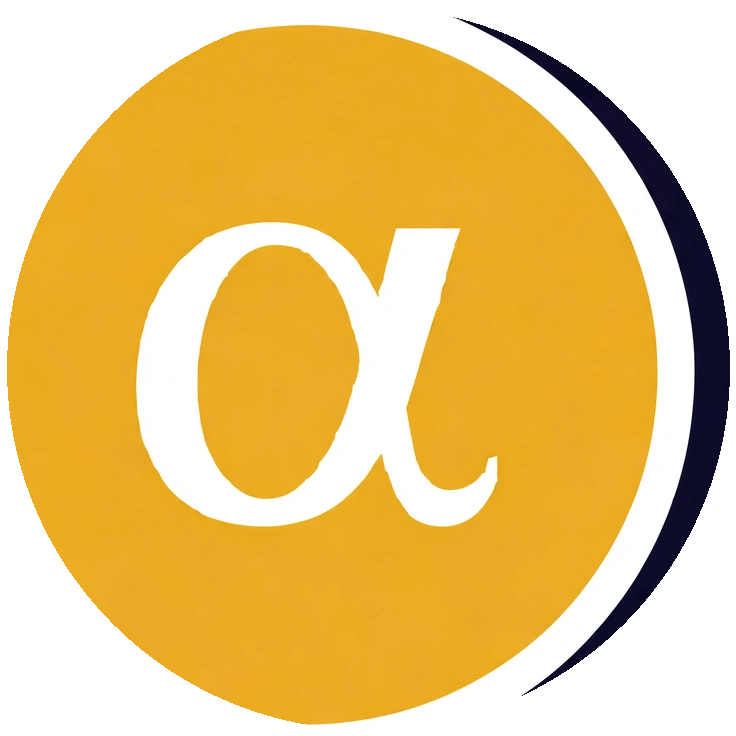
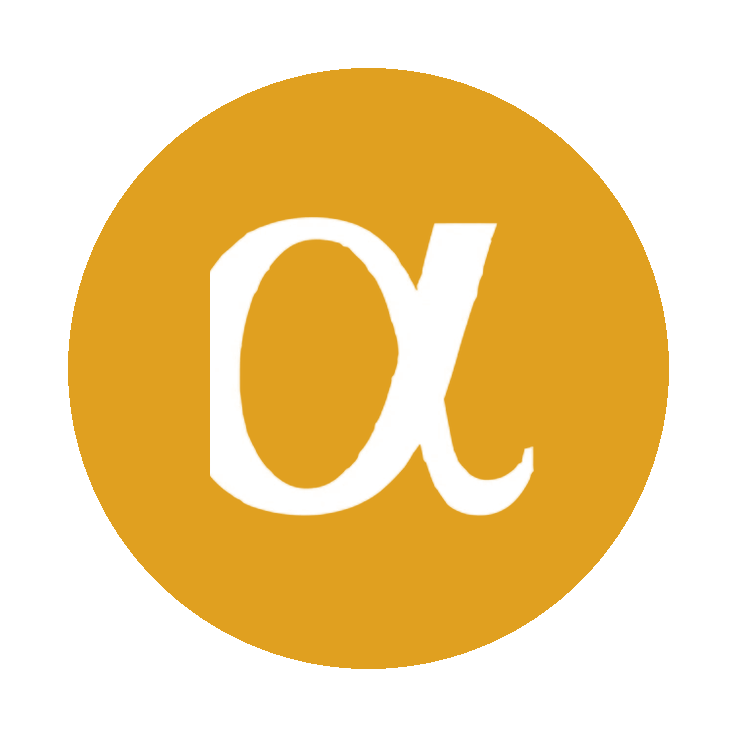
Medallion: perfect-circle border, original alpha, slightly smaller
Rebuilt the disc-a medallion geometrically (uniform white ring, verified
circular) with the logo's own alpha keyed onto it, instead of a raw crop
whose mask clipped the AI-drawn outline. Display size 46->42 appbar,
76->70 hero.

diff --git a/dfs_lab/ui/setup.py b/dfs_lab/ui/setup.py
@@ -75,14 +75,14 @@ def render_setup():
     st.markdown(styles.SETUP_APPBAR_DARK_CSS, unsafe_allow_html=True)
 
     st.markdown(f'''<div class="lab-appbar">
-  <div class="lab-brand">{_disc_a_img(46)}<b>ytia</b></div>
+  <div class="lab-brand">{_disc_a_img(42)}<b>ytia</b></div>
   <div class="lab-appbar-copy"><strong>NFL DFS COMMAND CENTER</strong><span>Build · Explore · Challenge</span></div>
   <div class="lab-live"><i></i> LIVE SLATE</div>
 </div>''',unsafe_allow_html=True)
 
     st.markdown(f"""
 <div style="text-align:center; padding: 1.2rem 0 0.6rem;">
-<div style="display:flex;align-items:center;justify-content:center;gap:5px;font-family:'Source Serif 4',Georgia,'Times New Roman',serif; font-size:3rem; font-weight:700; letter-spacing:0.01em;">{_disc_a_img(76)}<span>ytia</span></div>
+<div style="display:flex;align-items:center;justify-content:center;gap:5px;font-family:'Source Serif 4',Georgia,'Times New Roman',serif; font-size:3rem; font-weight:700; letter-spacing:0.01em;">{_disc_a_img(70)}<span>ytia</span></div>
 <div style="opacity:0.75; margin-top:0.3rem;">Start with a belief. Update it with evidence.</div>
 </div>
 """, unsafe_allow_html=True)
